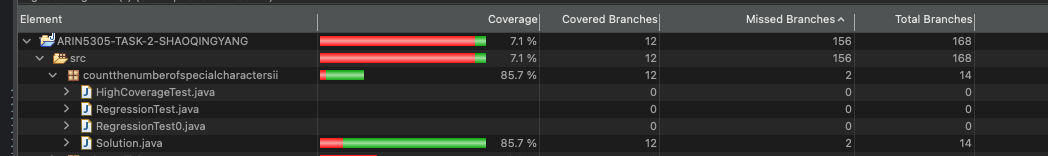
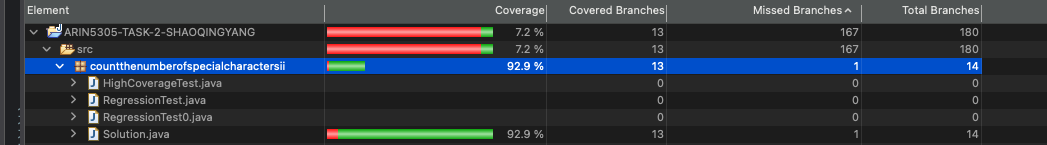
Task-2

diff --git a/Task-2/count-the-number-of-special-characters-ii/HighCoverageTest.java b/Task-2/count-the-number-of-special-characters-ii/HighCoverageTest.java
@@ -23,13 +23,14 @@ public class HighCoverageTest {
     }
 
     @Test
-    public void testAlternating() {
-        assertEquals(2, solution.numberOfSpecialChars("cdDC"));
+    public void testRepeatedUppercaseAndLowerAfter() {
+
+        assertEquals(0, solution.numberOfSpecialChars("AAa"));
     }
 
     @Test
     public void testRepeatedBlocks() {
-        assertEquals(2, solution.numberOfSpecialChars("ccddCCDD"));
+        assertEquals(2, solution.numberOfSpecialChars("cc1ddCCDD"));
     }
 }
 
